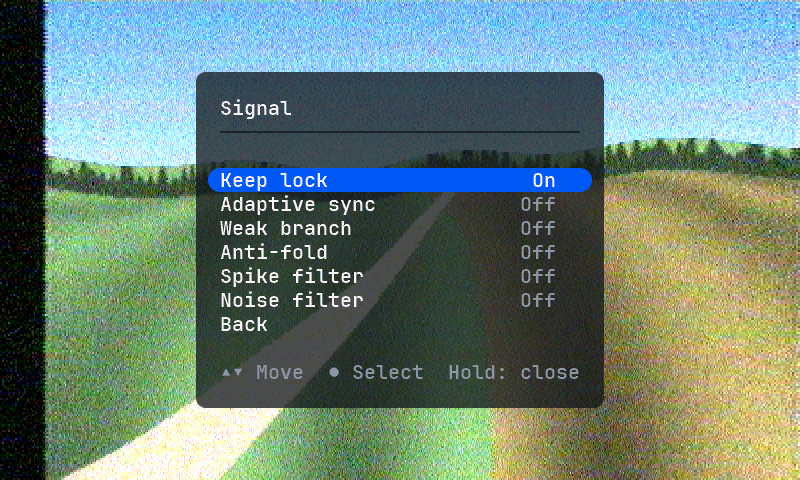
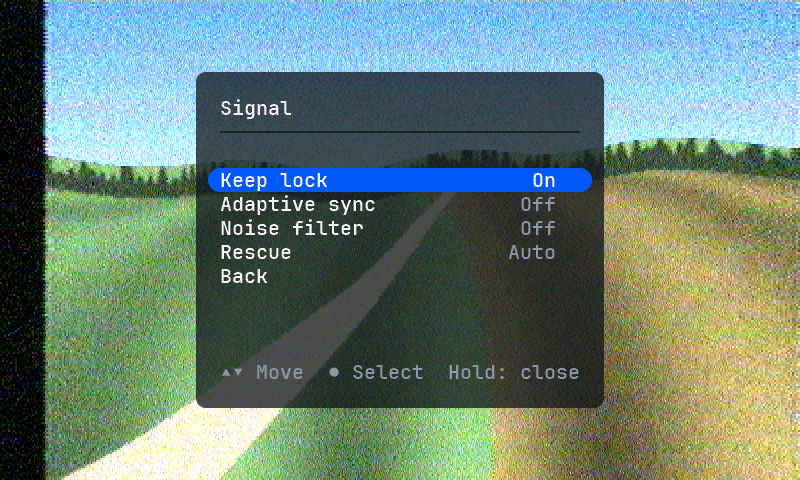
Rescue PLL: a threshold-extending demodulator on the combined angle (menu Signal > Rescue: Off / Auto / On)
Second-order PLL on phi (kp 1/4, ki 5/512, no multipliers); Auto switches on
disc50's click rate per 13 ms with hysteresis. Bit-exact with mrc3_model
(run_tb3: on and auto cases). Logged in the link log (flag bit 6, switches bits 3..4).

Claude-Session: https://claude.ai/code/session_01SbUcqf2coNPus5rYcABRPw

Changed region(s): [[0.25, 0.4375, 0.4688, 0.6875], [0.625, 0.5, 0.6875, 0.6562]]

diff --git a/fpga/model/mrc3_model.py b/fpga/model/mrc3_model.py
@@ -144,9 +144,65 @@ def disc50(phis, out):
         s = (s + step) & 1023
 
 
-def run(raws, enable=(True, True, True), return_phi=False, disc=False, valid=None):
+# Rescue PLL (menu Signal > Rescue): a second-order phase-locked loop on the
+# same combined angle, a threshold-extending demodulator for very weak signals
+# (sim/perf_rescue.py). Per sample k, in 2^-16 turn:
+#   e   = wrap16(phi - th)
+#   fo  = (F >> 9) + (e >> 2)                   kp = 1/4
+#   F   = clamp(F + 5 e, -9830 << 9, 14746 << 9)   ki = 5/512; -6 .. +9 MHz
+#   th  = (th + fo) & 0xFFFF
+#   code = clamp(((fo + fo[k-1]) * 84 + 1684275) >> 16, 0, 63), output at k+2
+# th starts at phi[0], F and fo[-1] at 0. Auto: disc50's out-of-window steps
+# (clicks) are counted per RS_WIN sample pairs (saturating at 4095); at the end
+# of a window the PLL takes over from RS_ON clicks and hands back below RS_OFF,
+# from that pair's output (k+2) on. Mode 0 off, 1 auto, 2 on.
+RS_WIN, RS_ON, RS_OFF = 1 << 18, 400, 100
+RS_FLO, RS_FHI = -9830, 14746
+
+
+@njit(cache=True)
+def rescue50(phis, out, mode, win, ton, toff, act):
+    n = len(phis)
+    s = ((phis[0] + 32768) >> 6) & 1023
+    th = phis[0]; F = 0; fop = 0
+    on = mode >= 2
+    cnt = 0; j = 0
+    pll = np.zeros(n, np.int64)
+    for k in range(n):
+        e = ((phis[k] - th + 32768) & 0xFFFF) - 32768
+        fo = (F >> 9) + (e >> 2)
+        F += 5 * e
+        if F < RS_FLO << 9: F = RS_FLO << 9
+        if F > RS_FHI << 9: F = RS_FHI << 9
+        th = (th + fo) & 0xFFFF
+        c = ((fo + fop) * 84 + 1684275) >> 16
+        pll[k] = 0 if c < 0 else (63 if c > 63 else c)
+        fop = fo
+    for k in range(0, n - 3, 2):
+        t = ((phis[k] + 32768) >> 6) & 1023
+        d = ((t - s + 512) & 1023) - 512
+        cl = not (d >= DISC_WL and d <= DISC_WH)
+        step = d if not cl else (d * 179) >> 8
+        s = (s + step) & 1023
+        if mode == 1:
+            cnt = cnt + 1 if cl and cnt < 4095 else cnt
+            if j % win == win - 1:
+                if cnt >= ton: on = True
+                elif cnt < toff: on = False
+                cnt = 0
+        j += 1
+        if on:
+            out[k + 2] = pll[k]
+            out[k + 3] = pll[k + 1]
+        act[k + 2] = on
+        act[k + 3] = on
+
+
+def run(raws, enable=(True, True, True), return_phi=False, disc=False, valid=None,
+        rescue=0, rwin=RS_WIN, ron=RS_ON, roff=RS_OFF, return_act=False):
     """raws: list of 1..3 arrays of 6-bit samples {I2..I0, Q2..Q0}, C5 A first.
-    return_phi: also return the combined angle per sample (2^-16 turn)."""
+    return_phi: also return the combined angle per sample (2^-16 turn).
+    rescue (with disc): 0 off, 1 auto, 2 on; return_act: also the per-sample rescue flag."""
     raw = np.zeros((3, len(raws[0])), np.int64)
     for b, r in enumerate(raws):
         raw[b] = np.asarray(r, np.int64)
@@ -158,6 +214,11 @@ def run(raws, enable=(True, True, True), return_phi=False, disc=False, valid=Non
     if disc:
         out = np.zeros(raw.shape[1], np.int64)
         disc50(phis, out)
+        act = np.zeros(raw.shape[1], np.int64)
+        if rescue:
+            rescue50(phis, out, rescue, rwin, ron, roff, act)
+        if return_act:
+            return (out.astype(np.uint8), phis, act) if return_phi else (out.astype(np.uint8), act)
     return (out.astype(np.uint8), phis) if return_phi else out.astype(np.uint8)
 
 

diff --git a/fpga/sim/perf_rescue.py b/fpga/sim/perf_rescue.py
@@ -1,0 +1,67 @@
+"""C5VRX by Twotoz and the C5VRX contributors: the Rescue PLL (menu Signal >
+Rescue) against the normal discriminator, with the receiver as built
+(model/mrc3_model.py, bit-exact with rtl/rx/mrc3_core.v: sim/run_tb3.py).
+
+Signal: four NTSC fields of the colour test scene (model/chroma_model.py)
+through the C5 channel model (model/eval3.py: own LO per C5, independent noise,
+optional Rayleigh fading at 300 Hz, 250 us AGC), one C5 or three. Measured on
+the last two fields (Auto has settled) with research/sim.py's goggle model:
+picture lock (0..1) / SINAD dB, and for Auto the share of time the PLL is in use.
+
+    python sim/perf_rescue.py [--jobs=N]
+"""
+import multiprocessing as mp
+import sys
+from pathlib import Path
+
+import numpy as np
+from scipy import signal as sg
+
+HERE = Path(__file__).resolve().parent
+sys.path.insert(0, str(HERE.parent / 'model'))
+import eval3  # noqa: E402
+import mrc3_model as M  # noqa: E402
+import chroma_model as C  # noqa: E402
+
+E = eval3.E
+MODES = ('Off', 'Auto', 'On')
+CONDS = [(cn, 0) for cn in (-4, -2, 0, 3, 6, 9, 14, 20)] + [(cn, 300) for cn in (-2, 0, 3, 6)]
+
+
+def job(a):
+    nb, cn, fd, seed = a
+    ire, region = C.source('NTSC', C.test_picture(240), fields=4, seed=seed)
+    rng = np.random.default_rng(seed)
+    src = sg.lfilter(sg.firwin(81, 6e6, fs=80e6), 1, np.repeat(ire, 2))
+    z80 = sg.sosfilt(E.sim.CHAN, np.exp(2j * np.pi * np.cumsum(E.sim.PORCH_HZ + 0.7 * src / 140 * E.sim.DEV_PP) / 80e6))
+    z80 /= np.sqrt(np.mean(abs(z80) ** 2))
+    ys = [eval3.branch_y(z80, cn, rng, fd) for _ in range(nb)]
+    raws = [M.to_raw3(y[0]) for y in ys]
+    clean = [M.to_raw3(y[1]) for y in ys]
+    k0 = len(ire) // 2
+    c = dict(truth=sg.sosfilt(E.sim.GOGGLE, ire)[k0:], region=region[k0:], standard='NTSC')
+    out = {}
+    for m, name in enumerate(MODES):
+        codes, act = M.run(raws, disc=True, rescue=m, return_act=True)
+        ref = M.run(clean, disc=True, rescue=2 if m == 2 else 0)        # calibration: the same demodulator, clean
+        r = E.sim.measure(c, codes[k0:], ref[k0:])
+        out[name] = (r['picture'], r['sinad'], float(np.mean(act[k0:])))
+    return a[:3], out
+
+
+def main():
+    jobs = [(nb, cn, fd, 400 + 11 * s + cn + (50 if fd else 0)) for nb in (1, 3) for cn, fd in CONDS for s in range(2)]
+    procs = int(next((a.split('=')[1] for a in sys.argv if a.startswith('--jobs=')), 3))
+    with mp.Pool(procs) as p:
+        res = p.map(job, jobs)
+    for nb in (1, 3):
+        print(f'\n{nb} C5' + ('s (Triversity)' if nb == 3 else '') + ': picture lock / SINAD dB per Rescue setting, Auto: share of time on the PLL')
+        print(f"{'fade':>4s} {'C/N':>4s}" + ''.join(f'{m:>13s}' for m in MODES) + '   PLL in use')
+        for cn, fd in CONDS:
+            rs = [r for a, r in res if a == (nb, cn, fd)]
+            print(f'{fd:4d} {cn:4d}' + ''.join(f"{np.mean([r[m][0] for r in rs]):.2f}/{np.mean([r[m][1] for r in rs]):5.1f}".rjust(13) for m in MODES)
+                  + f"   {np.mean([r['Auto'][2] for r in rs]):6.0%}")
+
+
+if __name__ == '__main__':
+    main()

diff --git a/fpga/sim/run_tb3.py b/fpga/sim/run_tb3.py
@@ -49,12 +49,12 @@ def markers(raws, seed, n, count=6):
     return raws, valid
 
 
-def run(raws, en, work, valid):
+def run(raws, en, work, valid, rescue=0):
     for name, r in zip('abc', raws):
         (work / f'raw_{name}.hex').write_text('\n'.join(f'{int(v):02x}' for v in r) + '\n')
     (work / 'valid.hex').write_text('\n'.join(f'{int(valid[0, k] | valid[1, k] << 1 | valid[2, k] << 2):x}'
                                               for k in range(valid.shape[1])) + '\n')
-    subprocess.run(['vvp', '-n', str(work / 'tb'), f'+n={len(raws[0])}', f'+en_b={en[1]}', f'+en_c={en[2]}'],
+    subprocess.run(['vvp', '-n', str(work / 'tb'), f'+n={len(raws[0])}', f'+en_b={en[1]}', f'+en_c={en[2]}', f'+rescue={rescue}'],
                    cwd=work, check=True, stdout=subprocess.DEVNULL)
     return np.array([int(x, 16) if 'x' not in x and 'z' not in x else -1
                      for x in (work / 'code.hex').read_text().split()], np.int64)
@@ -69,7 +69,9 @@ def main():
         cases = [(5, 3, 300, (1, 1, 1)), (6, 12, 0, (1, 1, 1)), (7, -2, 0, (1, 1, 1)),
                  (8, 6, 300, (1, 1, 0)), (9, 6, 300, (1, 0, 1)), (10, 4, 0, (1, 0, 0)), (11, None, 0, (1, 1, 1))]
         cases.append((12, 'deadC', 0, (1, 1, 1)))   # C5 C without signal
-        for seed, cn, fd, en in cases:
+        cases = [c + (0,) for c in cases]
+        cases += [(13, -2, 0, (1, 1, 1), 2), (14, 3, 300, (1, 0, 0), 2), (15, 0, 300, (1, 1, 1), 1), (16, 3, 300, (1, 0, 0), 1)]  # rescue on / auto
+        for seed, cn, fd, en, rescue in cases:
             n = 6000
             if cn == 'deadC':   # C5 C without signal: random words on C only
                 raws = stimulus(seed, 6, fd, n)
@@ -79,15 +81,18 @@ def main():
             else:
                 raws = stimulus(seed, cn, fd, n)
             raws, valid = markers(raws, seed, n, 0 if seed == 6 else 6)
-            hw = run(raws, en, work, valid)
-            ref = mrc3_model.run(raws, tuple(bool(e) for e in en), disc=True, valid=valid).astype(np.int64)
+            hw = run(raws, en, work, valid, rescue)
+            ref, act = mrc3_model.run(raws, tuple(bool(e) for e in en), disc=True, valid=valid,
+                                      rescue=rescue, rwin=64, ron=8, roff=3, return_act=True)
+            ref = ref.astype(np.int64)
             best = None
             for lat in range(5, 40):
                 m = np.count_nonzero(hw[lat + WARMUP:lat + len(ref)] != ref[WARMUP:len(hw) - lat])
                 if best is None or m < best[1]:
                     best = (lat, m)
             lat, mism = best
-            print(f'seed={seed} cn={cn} fd={fd} en={en}: latency {lat}, mismatches {mism} of {len(ref) - WARMUP}')
+            sw = f', rescue {rescue}: in use {np.mean(act):.0%}, {int(np.count_nonzero(np.diff(act)))} switches' if rescue else ''
+            print(f'seed={seed} cn={cn} fd={fd} en={en}{sw}: latency {lat}, mismatches {mism} of {len(ref) - WARMUP}')
             ok &= mism == 0
     print('PASS' if ok else 'FAIL')
     sys.exit(0 if ok else 1)

diff --git a/fpga/gen/gen_osd.py b/fpga/gen/gen_osd.py
@@ -52,7 +52,7 @@ BANDS = 'RABEFL'
 
 FIELDS = ['', 'CAPL', 'CAPR', 'LIVECH', 'REC', 'NOSIG', 'RXBAR', 'VSTD', 'CHVAL', 'SCANV', 'RECV', 'RXCNT',
           'RXROW', 'GAINV', 'AFCV', 'BRIGHTV', 'CALV', 'EDL', 'EDR', 'MODEV', 'ASPV', 'LOGOV', 'LOGO',
-          'KLOCKV', 'ASYNCV', 'AFOLDV', 'SPIKEV', 'WEAKV', 'NFILTV']
+          'KLOCKV', 'ASYNCV', 'RESCV', 'SPIKEV', 'WEAKV', 'NFILTV']
 FID = {n: i for i, n in enumerate(FIELDS)}
 
 # menu geometry
@@ -61,12 +61,12 @@ TOP, BOT = 3, 16           # panel rows (inclusive)
 ITEM0 = 7                  # first item row
 MAIN_ITEMS = [('Channel', 'CHVAL'), ('Mode', 'MODEV'), ('Scan', 'SCANV'), ('Record', 'RECV'), ('Receivers', 'RXCNT'),
               ('Signal', None), ('Settings', None)]
-SIG_ITEMS = [('Keep lock', 'KLOCKV'), ('Adaptive sync', 'ASYNCV'), ('Noise filter', 'NFILTV'),
+SIG_ITEMS = [('Keep lock', 'KLOCKV'), ('Adaptive sync', 'ASYNCV'), ('Noise filter', 'NFILTV'), ('Rescue', 'RESCV'),
              ('Back', None)]
 SET_ITEMS = [('Gain', 'GAINV'), ('AFC', 'AFCV'), ('Aspect', 'ASPV'), ('Logo', 'LOGOV'), ('Brightness', 'BRIGHTV'),
              ('Calibrate', 'CALV'), ('Back', None)]
-W_VAL = dict(NFILTV=3, WEAKV=3, KLOCKV=3, ASYNCV=3, AFOLDV=3, SPIKEV=3, ASPV=9, LOGOV=3, MODEV=10, CHVAL=9, SCANV=11, RECV=9, RXCNT=3, GAINV=5, AFCV=3, BRIGHTV=8, CALV=6)
-N_ITEMS = [0, 7, 1, 7, 4]  # selectable rows per page (receivers: Back only, row ITEM0 + 4); 4 = Signal
+W_VAL = dict(NFILTV=3, WEAKV=3, KLOCKV=3, ASYNCV=3, RESCV=4, SPIKEV=3, ASPV=9, LOGOV=3, MODEV=10, CHVAL=9, SCANV=11, RECV=9, RXCNT=3, GAINV=5, AFCV=3, BRIGHTV=8, CALV=6)
+N_ITEMS = [0, 7, 1, 7, 5]  # selectable rows per page (receivers: Back only, row ITEM0 + 4); 4 = Signal
 
 
 def glyphs_vh():
@@ -383,8 +383,10 @@ def field_cells(name, w, st, row, sel, edit):
         return K(rjust(['Level', 'Keel', 'RSSI'][st['gain_model']], w))
     if name == 'AFCV':
         return K(rjust('On' if st['afc'] else 'Off', w))
-    if name in ('KLOCKV', 'ASYNCV', 'AFOLDV', 'SPIKEV', 'WEAKV', 'NFILTV'):
-        key = dict(KLOCKV='klock', ASYNCV='async', AFOLDV='afold', SPIKEV='spike', WEAKV='weak', NFILTV='nfilt')[name]
+    if name == 'RESCV':
+        return K(rjust(['Off', 'Auto', 'On'][st.get('rescue', 1)], w))
+    if name in ('KLOCKV', 'ASYNCV', 'SPIKEV', 'WEAKV', 'NFILTV'):
+        key = dict(KLOCKV='klock', ASYNCV='async', SPIKEV='spike', WEAKV='weak', NFILTV='nfilt')[name]
         return K(rjust('On' if st.get(key, False) else 'Off', w))
     if name == 'BRIGHTV':
         return K([SEG_ON if k <= st['bright'] else SEG_OFF for k in range(8)], fg=WHITE if sel or edit else None)

diff --git a/tools/trilog.py b/tools/trilog.py
@@ -9,10 +9,11 @@ Record (25 bytes, little-endian):
    6  video field number (the HQ DVR's JPEG records, tools/hqdvr_to_mp4.py)
    8  weight in use A, B, C (8 bit each)
   11  flags: bit 0 PAL, 1 sync locked, 2 B enabled (aligned), 3 C enabled,
-      4 B alive, 5 C alive
+      4 B alive, 5 C alive, 6 Rescue PLL in use
   12  sync quality (in-window sync edges in the last 100 ms, 16 bit)
   14  channel index (bits 0..5), Noise filter level 0..3 (bits 6..7)
-  15  Signal switches (bit 0 Keep lock, 2 Adaptive sync, 5 Noise filter),
+  15  Signal switches (bit 0 Keep lock, 2 Adaptive sync, 3..4 Rescue 0 Off
+      1 Auto 2 On, 5 Noise filter),
       mode (bits 6..7: 0 Single, 1 Diversity, 2 Triversity)
   16  per C5 A, B, C three bytes, the newest marker values (c5/main/fpga_link.h):
       C/N x10 + 1000 (12 bits, 0 unknown), flags bits 0..3 (AFC locked,
@@ -28,6 +29,7 @@ from pathlib import Path
 
 SIZE = 25
 SW = ['keep_lock', None, 'adaptive_sync', None, None, 'noise_filter']
+RESCUE = ['Off', 'Auto', 'On', 'On']
 
 
 def records(data):
@@ -44,6 +46,7 @@ def records(data):
         row = dict(log=num, video_field=vid, pal=fl & 1, locked=fl >> 1 & 1, sync_q=sq,
                    channel=chn & 63, noise_level=chn >> 6, mode=['Single', 'Diversity', 'Triversity', '?'][sw >> 6])
         row.update({s: sw >> k & 1 for k, s in enumerate(SW) if s})
+        row.update(rescue=RESCUE[sw >> 3 & 3], rescue_active=fl >> 6 & 1)
         for b, name in enumerate('ABC'):
             v = int.from_bytes(r[16 + 3 * b:19 + 3 * b], 'little')
             cn, flags, sig = v & 4095, v >> 12 & 15, v >> 16
